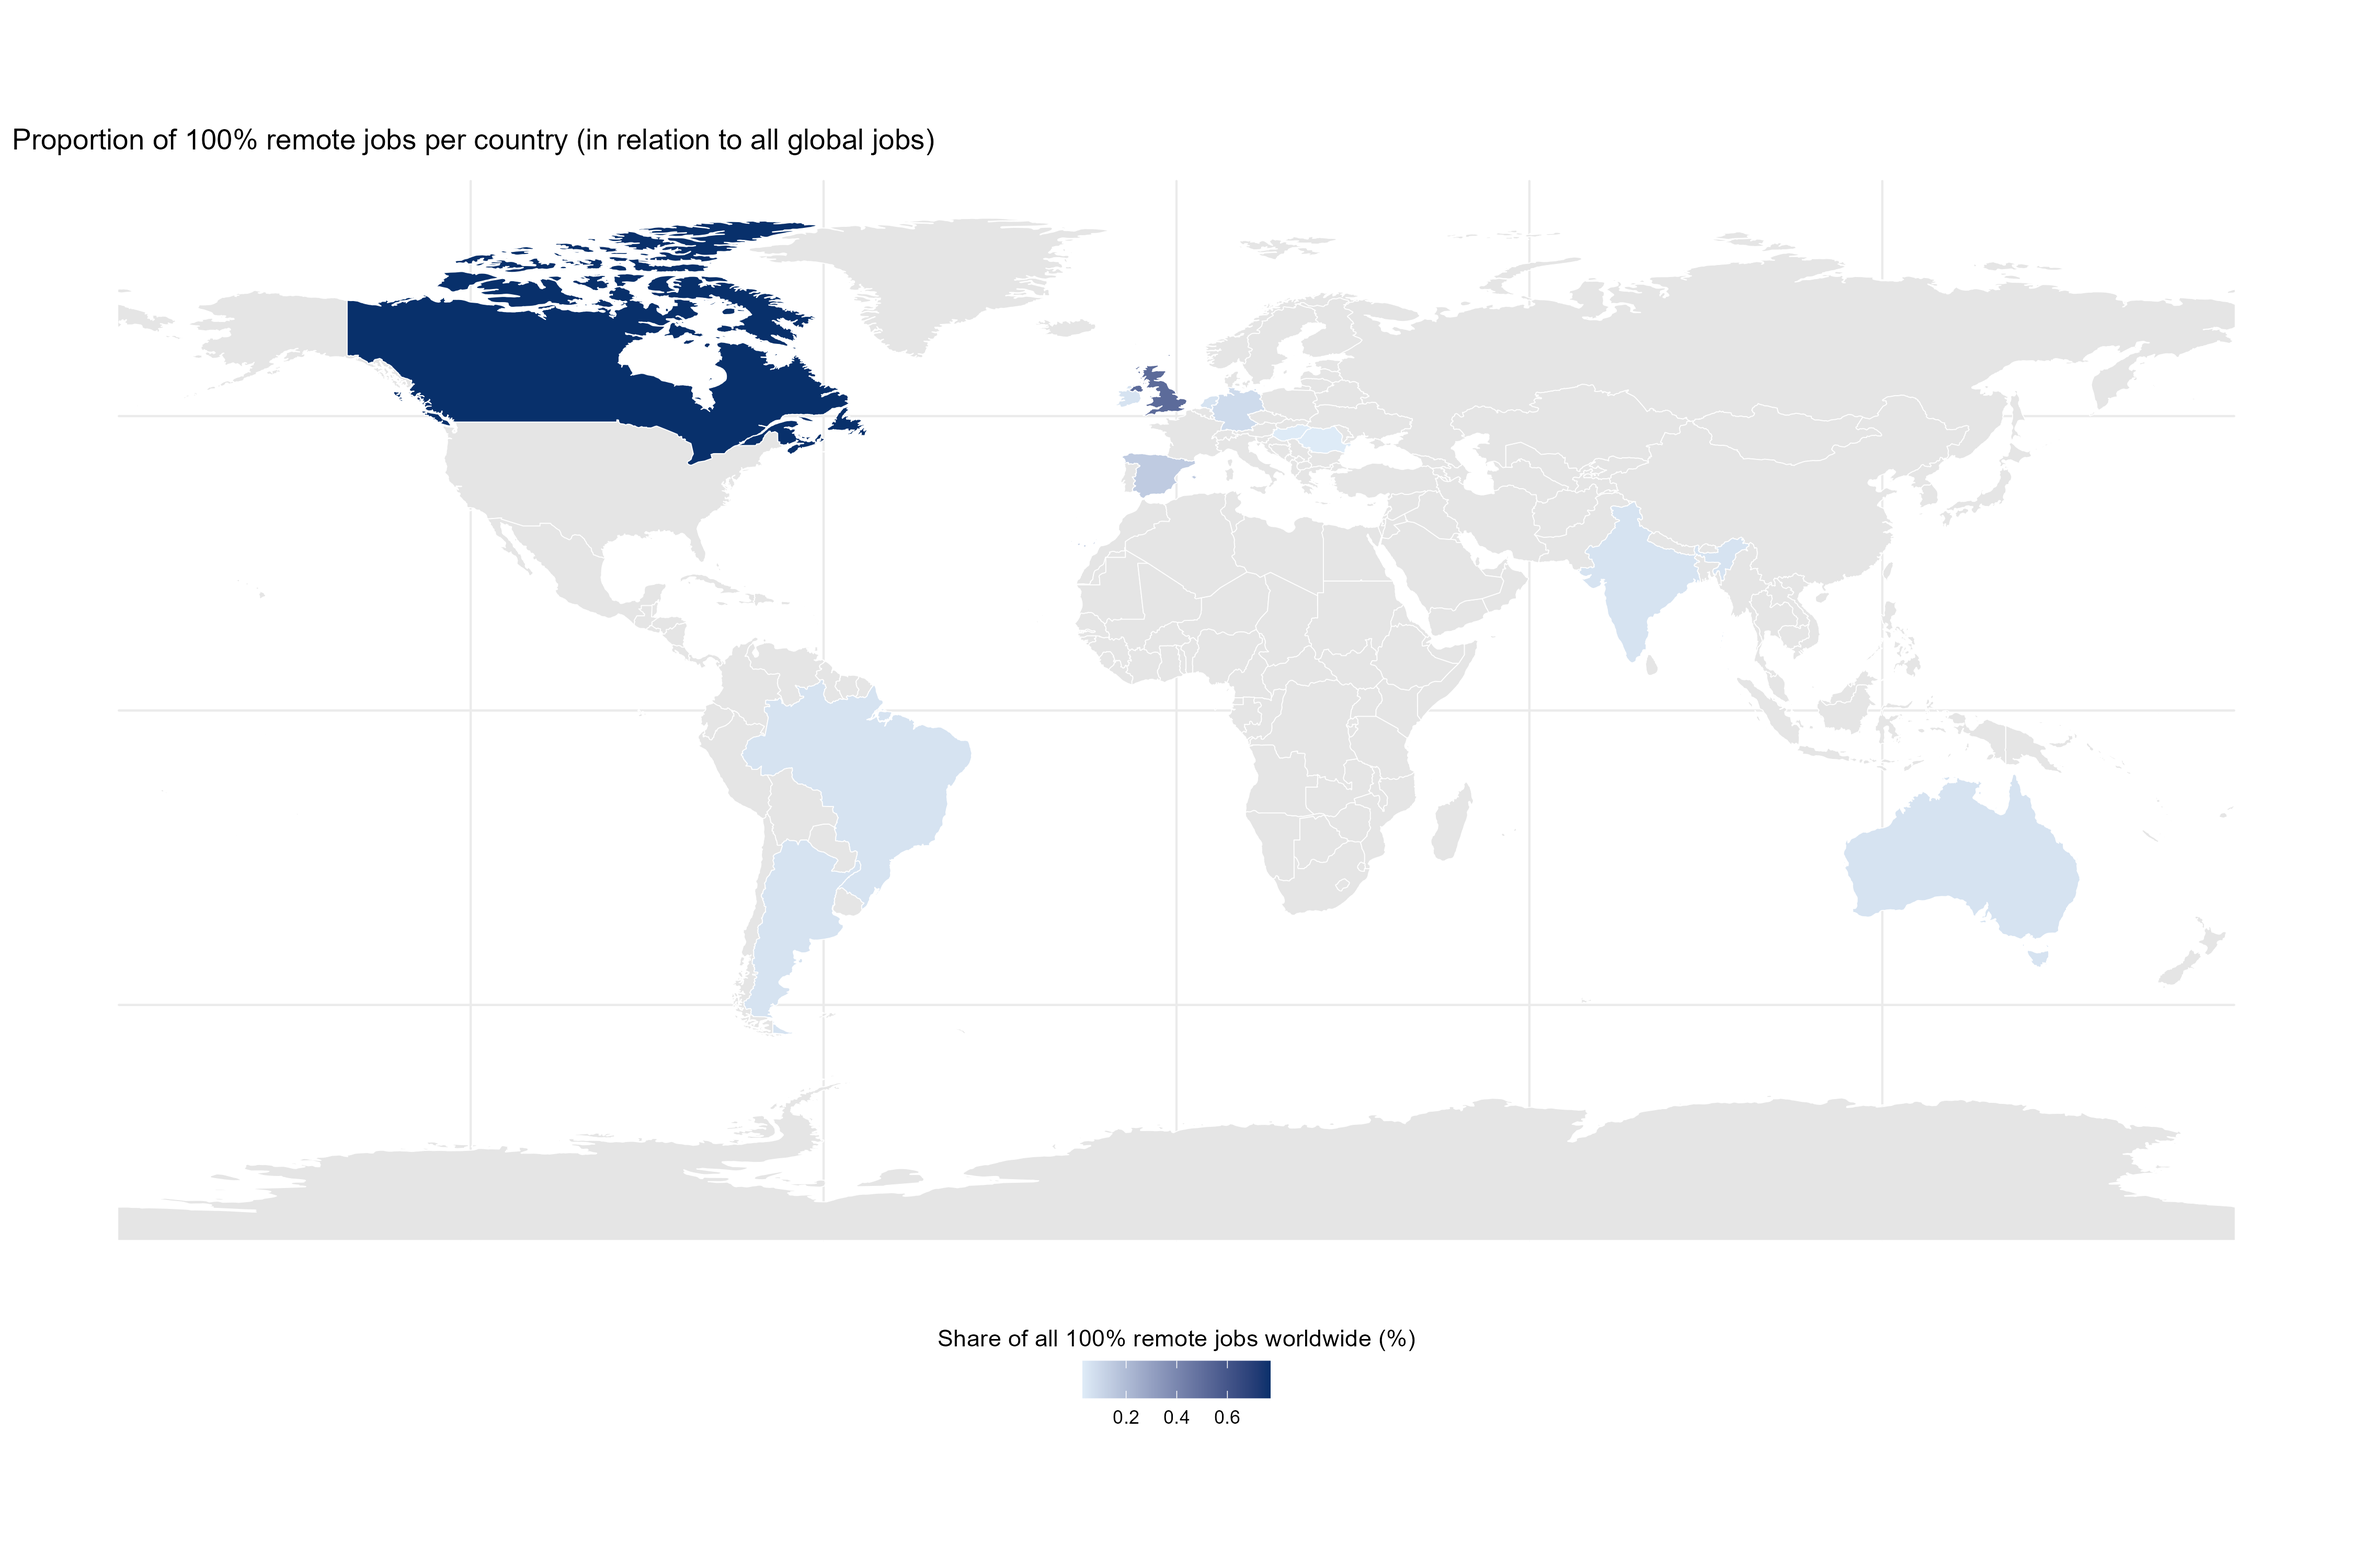
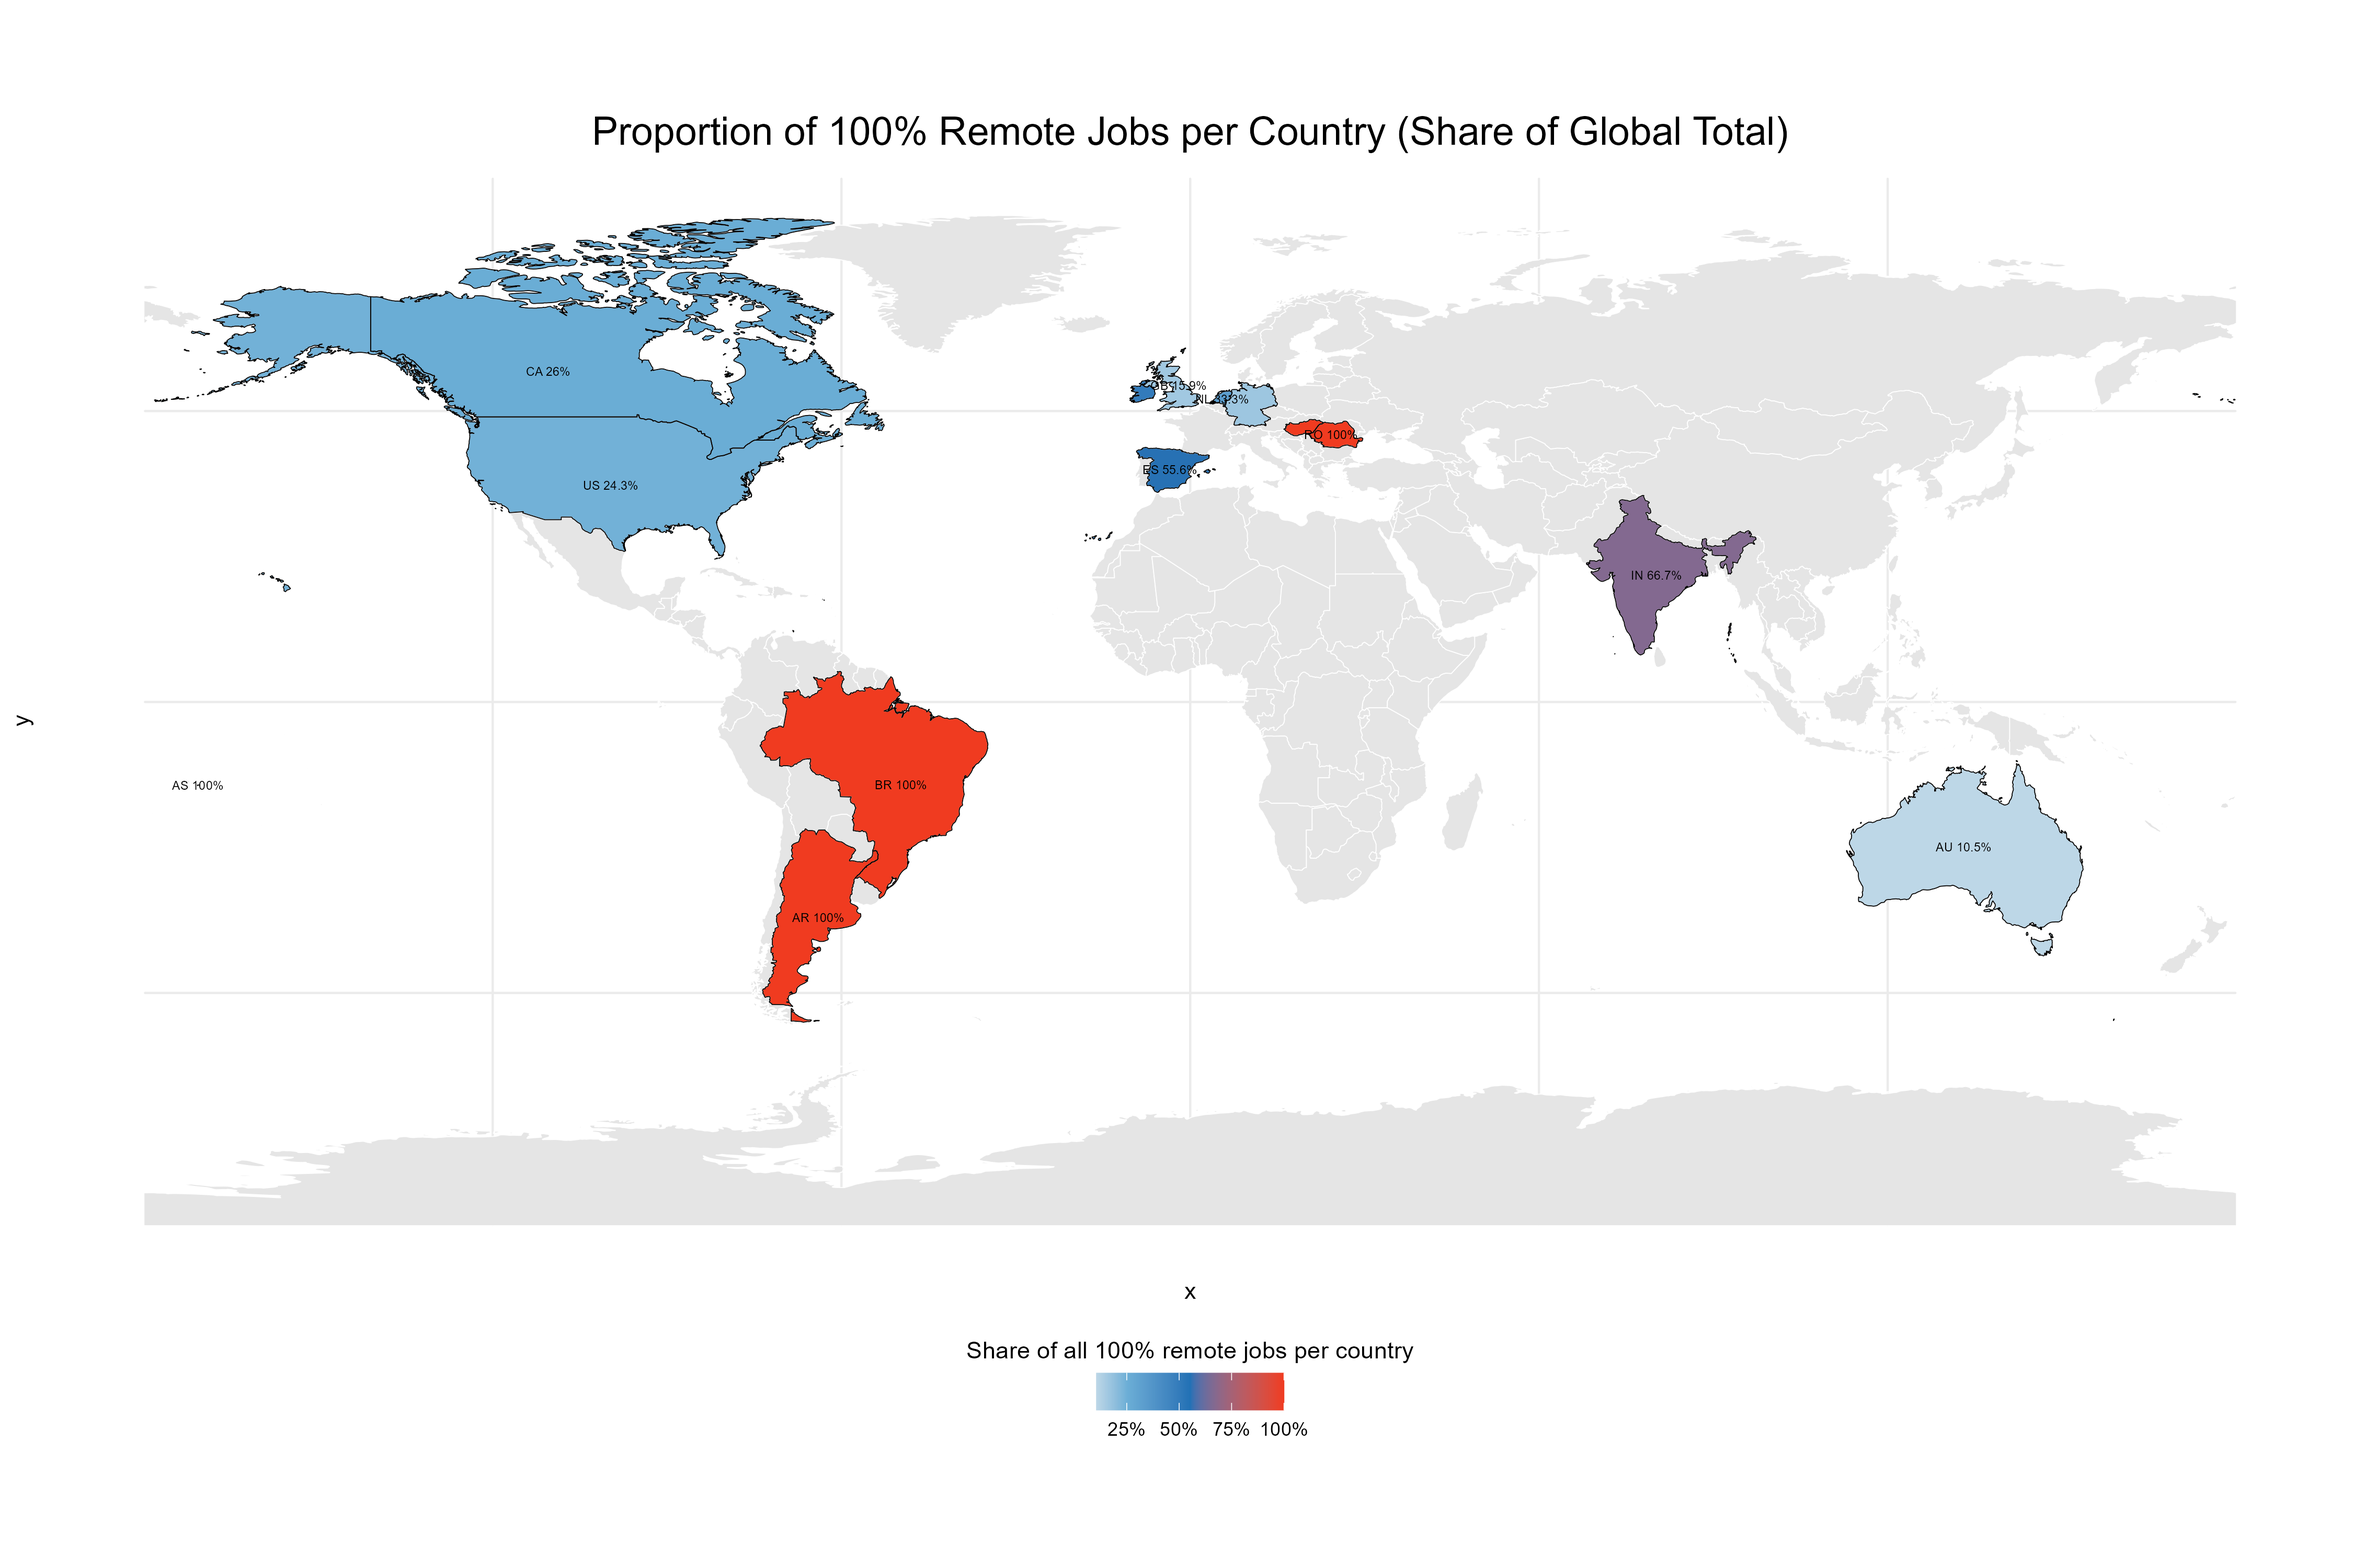
revised solution from supti's project

diff --git a/Projects/Supti7/Solution_Paula0013/paula0013.md b/Projects/Supti7/Solution_Paula0013/paula0013.md
@@ -9,18 +9,18 @@ countries.
 
 # Read and transform of the data
 
-<table>
+<table style="width:100%;">
 <colgroup>
 <col style="width: 5%" />
+<col style="width: 10%" />
 <col style="width: 9%" />
-<col style="width: 9%" />
-<col style="width: 18%" />
+<col style="width: 15%" />
 <col style="width: 4%" />
 <col style="width: 9%" />
 <col style="width: 8%" />
-<col style="width: 10%" />
+<col style="width: 11%" />
 <col style="width: 7%" />
-<col style="width: 9%" />
+<col style="width: 10%" />
 <col style="width: 7%" />
 </colgroup>
 <thead>
@@ -104,143 +104,21 @@ countries.
 <td style="text-align: left;">AU</td>
 <td style="text-align: left;">M</td>
 </tr>
-<tr>
-<td style="text-align: right;">2024</td>
-<td style="text-align: left;">MI</td>
-<td style="text-align: left;">FT</td>
-<td style="text-align: left;">Business Intelligence Developer</td>
-<td style="text-align: right;">95413</td>
-<td style="text-align: left;">USD</td>
-<td style="text-align: right;">95413</td>
-<td style="text-align: left;">US</td>
-<td style="text-align: right;">100</td>
-<td style="text-align: left;">US</td>
-<td style="text-align: left;">M</td>
-</tr>
-<tr>
-<td style="text-align: right;">2024</td>
-<td style="text-align: left;">MI</td>
-<td style="text-align: left;">FT</td>
-<td style="text-align: left;">Business Intelligence Developer</td>
-<td style="text-align: right;">70692</td>
-<td style="text-align: left;">USD</td>
-<td style="text-align: right;">70692</td>
-<td style="text-align: left;">US</td>
-<td style="text-align: right;">100</td>
-<td style="text-align: left;">US</td>
-<td style="text-align: left;">M</td>
-</tr>
-<tr>
-<td style="text-align: right;">2024</td>
-<td style="text-align: left;">SE</td>
-<td style="text-align: left;">FT</td>
-<td style="text-align: left;">Data Engineer</td>
-<td style="text-align: right;">110000</td>
-<td style="text-align: left;">USD</td>
-<td style="text-align: right;">110000</td>
-<td style="text-align: left;">UA</td>
-<td style="text-align: right;">0</td>
-<td style="text-align: left;">UA</td>
-<td style="text-align: left;">M</td>
-</tr>
-<tr>
-<td style="text-align: right;">2024</td>
-<td style="text-align: left;">SE</td>
-<td style="text-align: left;">FT</td>
-<td style="text-align: left;">Data Engineer</td>
-<td style="text-align: right;">48000</td>
-<td style="text-align: left;">USD</td>
-<td style="text-align: right;">48000</td>
-<td style="text-align: left;">UA</td>
-<td style="text-align: right;">0</td>
-<td style="text-align: left;">UA</td>
-<td style="text-align: left;">M</td>
-</tr>
-<tr>
-<td style="text-align: right;">2024</td>
-<td style="text-align: left;">SE</td>
-<td style="text-align: left;">FT</td>
-<td style="text-align: left;">Data Scientist</td>
-<td style="text-align: right;">222300</td>
-<td style="text-align: left;">USD</td>
-<td style="text-align: right;">222300</td>
-<td style="text-align: left;">US</td>
-<td style="text-align: right;">0</td>
-<td style="text-align: left;">US</td>
-<td style="text-align: left;">M</td>
-</tr>
-<tr>
-<td style="text-align: right;">2024</td>
-<td style="text-align: left;">SE</td>
-<td style="text-align: left;">FT</td>
-<td style="text-align: left;">Data Scientist</td>
-<td style="text-align: right;">119700</td>
-<td style="text-align: left;">USD</td>
-<td style="text-align: right;">119700</td>
-<td style="text-align: left;">US</td>
-<td style="text-align: right;">0</td>
-<td style="text-align: left;">US</td>
-<td style="text-align: left;">M</td>
-</tr>
-<tr>
-<td style="text-align: right;">2024</td>
-<td style="text-align: left;">SE</td>
-<td style="text-align: left;">FT</td>
-<td style="text-align: left;">Cloud Database Engineer</td>
-<td style="text-align: right;">170375</td>
-<td style="text-align: left;">USD</td>
-<td style="text-align: right;">170375</td>
-<td style="text-align: left;">US</td>
-<td style="text-align: right;">100</td>
-<td style="text-align: left;">US</td>
-<td style="text-align: left;">M</td>
-</tr>
-<tr>
-<td style="text-align: right;">2024</td>
-<td style="text-align: left;">SE</td>
-<td style="text-align: left;">FT</td>
-<td style="text-align: left;">Cloud Database Engineer</td>
-<td style="text-align: right;">102500</td>
-<td style="text-align: left;">USD</td>
-<td style="text-align: right;">102500</td>
-<td style="text-align: left;">US</td>
-<td style="text-align: right;">100</td>
-<td style="text-align: left;">US</td>
-<td style="text-align: left;">M</td>
-</tr>
-<tr>
-<td style="text-align: right;">2024</td>
-<td style="text-align: left;">SE</td>
-<td style="text-align: left;">FT</td>
-<td style="text-align: left;">Data Engineer</td>
-<td style="text-align: right;">270000</td>
-<td style="text-align: left;">USD</td>
-<td style="text-align: right;">270000</td>
-<td style="text-align: left;">AU</td>
-<td style="text-align: right;">0</td>
-<td style="text-align: left;">AU</td>
-<td style="text-align: left;">M</td>
-</tr>
-<tr>
-<td style="text-align: right;">2024</td>
-<td style="text-align: left;">SE</td>
-<td style="text-align: left;">FT</td>
-<td style="text-align: left;">Data Engineer</td>
-<td style="text-align: right;">190000</td>
-<td style="text-align: left;">USD</td>
-<td style="text-align: right;">190000</td>
-<td style="text-align: left;">AU</td>
-<td style="text-align: right;">0</td>
-<td style="text-align: left;">AU</td>
-<td style="text-align: left;">M</td>
-</tr>
 </tbody>
 </table>
 
-# Visualisation of the percentage of the remote work ratio in worldwide comparsion
+# Visualisation of the percentage of the remote work ratio in comparsion to other countries
+
+This map shows the share of fully remote jobs (100% remote) compared to
+the total number of jobs per country for the year 2024. Countries
+without relevant data are shown in gray.
 
 ![](plot_procent_remote_Work_Worlwide.png)
 
 # Visualisation of average salary of the top 5 entry and mid-level jobs
+
+This chart shows the average salaries of the five most common job titles
+at entry and mid-level. The error bars show the standard deviation
+within the respective group.
 
 ![](plot_top_5_jobs_Average_Salary.png)
